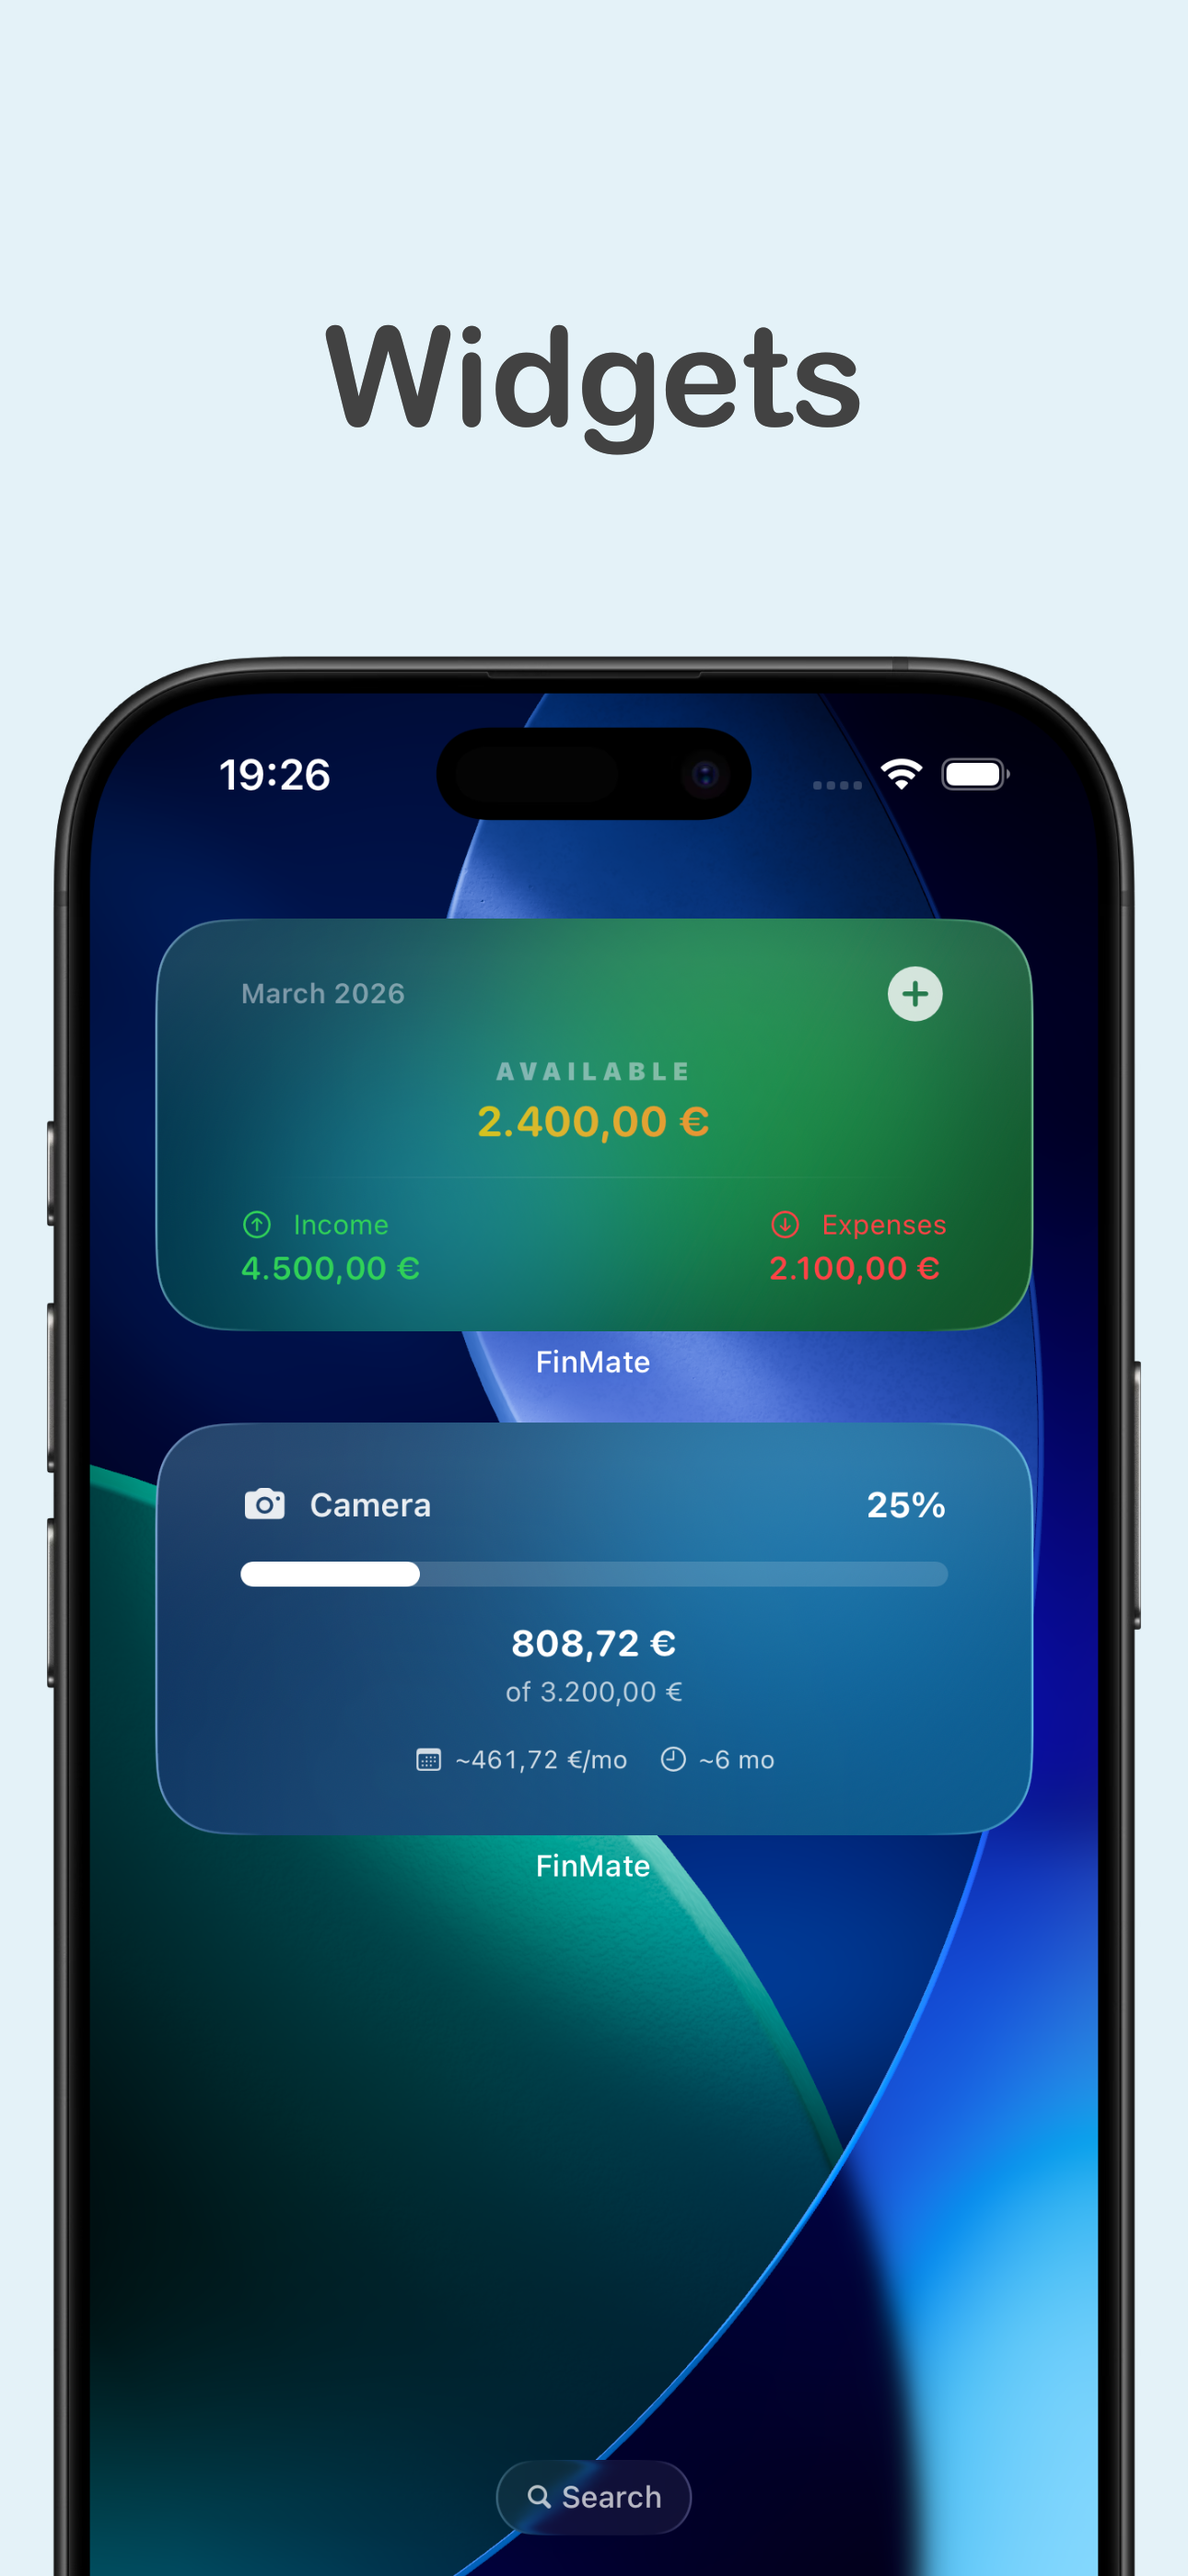
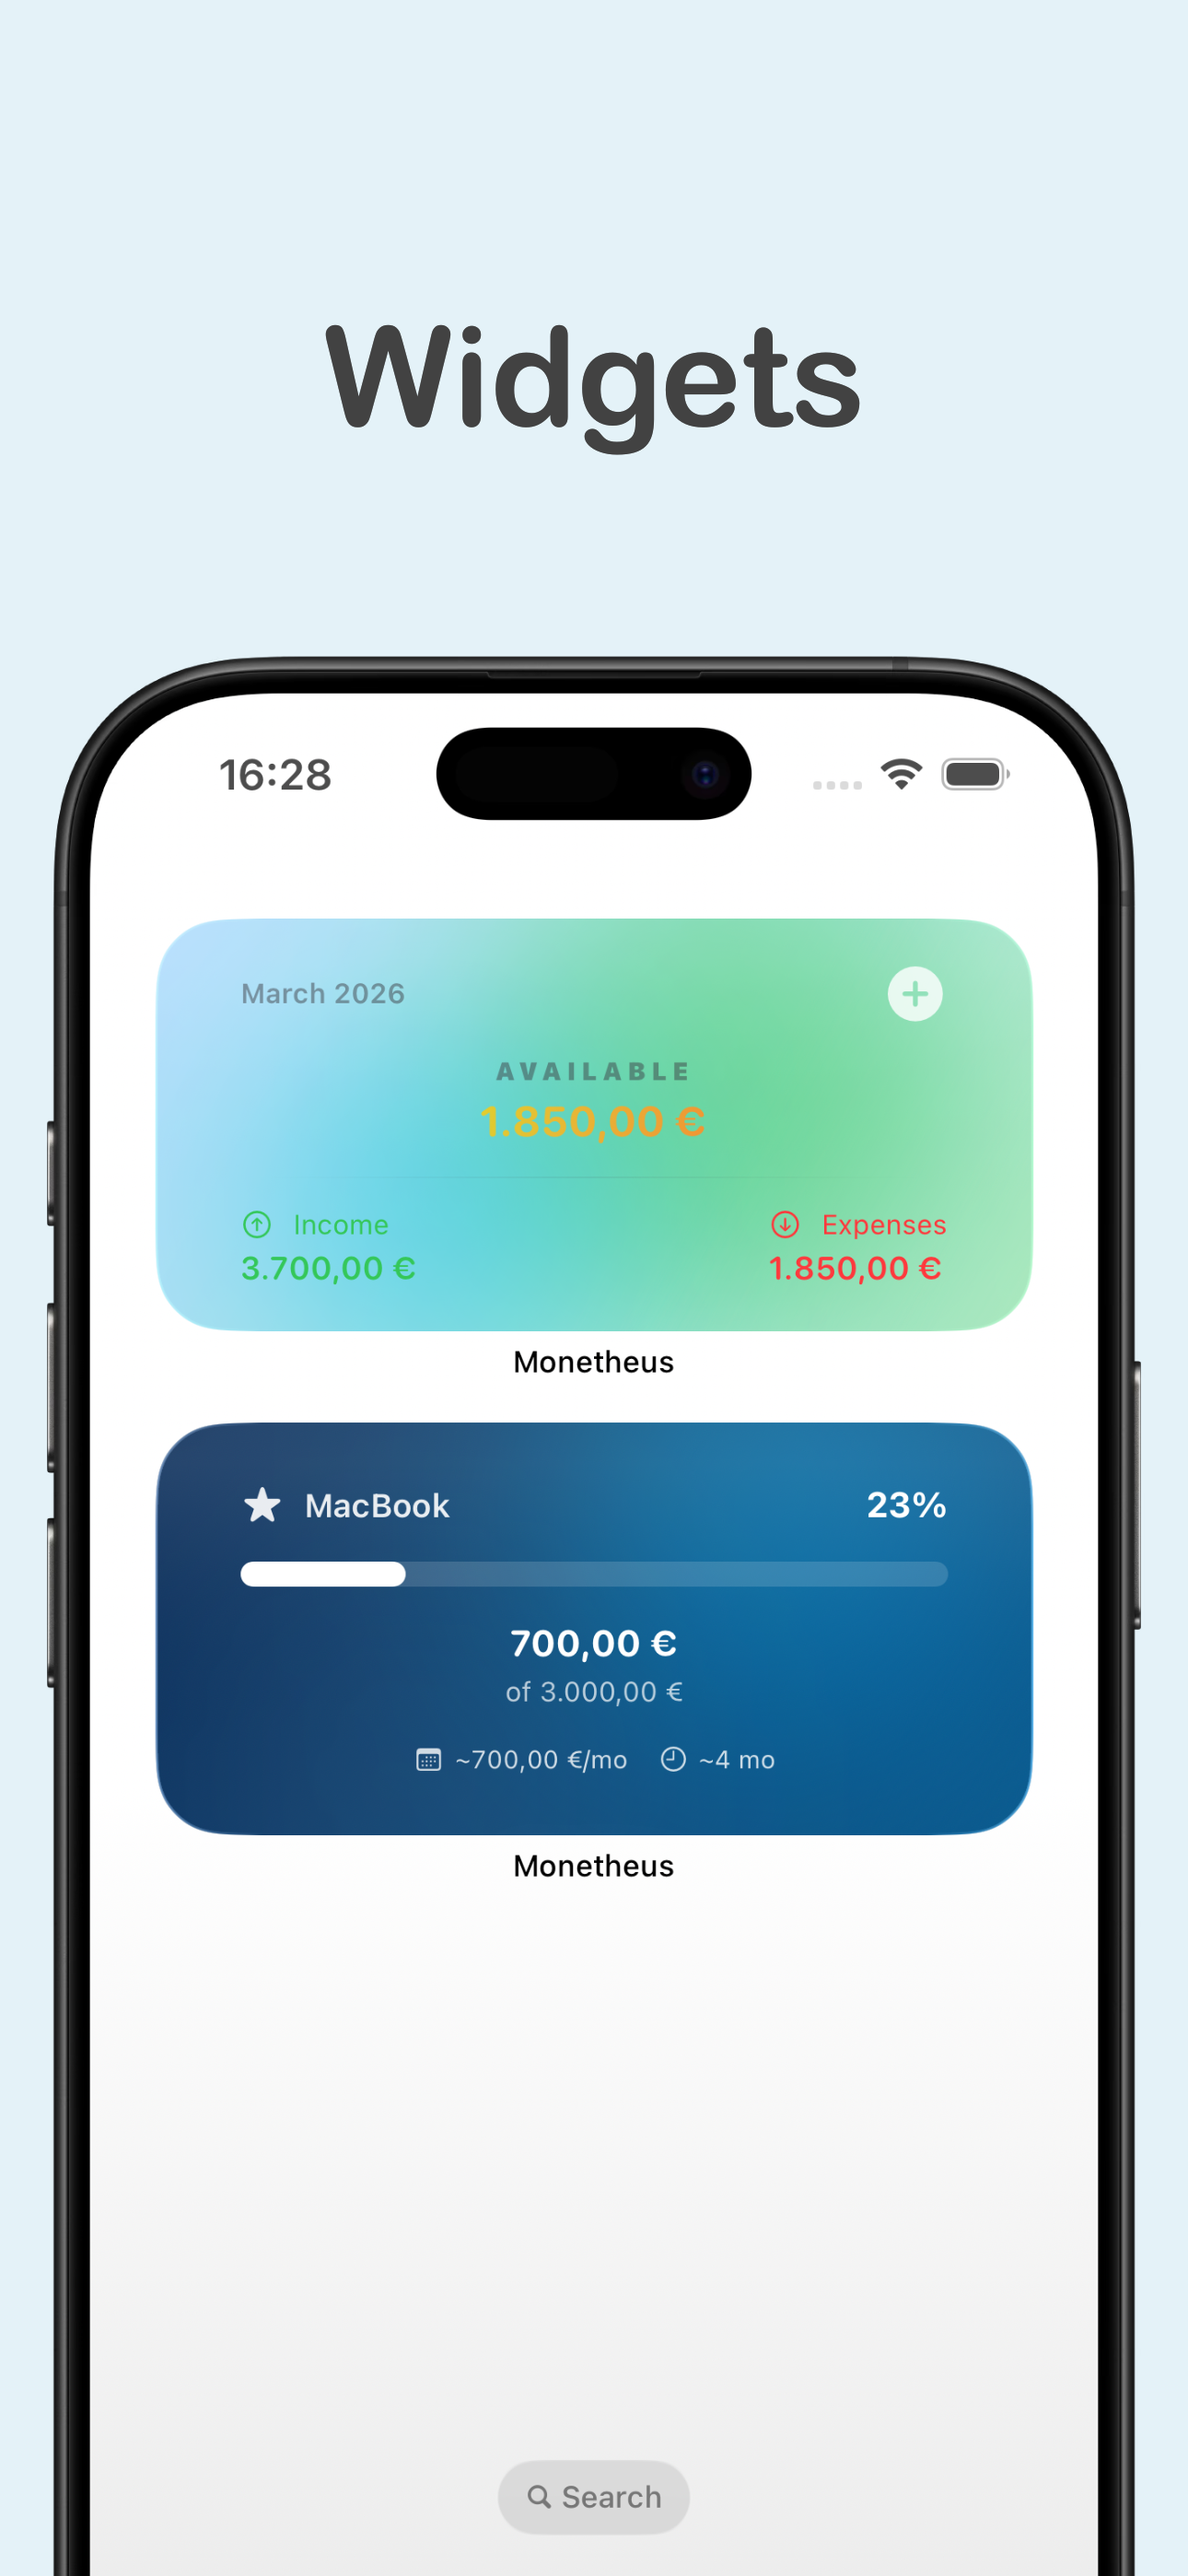
Rename

diff --git a/index.html b/index.html
@@ -3,7 +3,7 @@
 <head>
     <meta charset="UTF-8">
     <meta name="viewport" content="width=device-width, initial-scale=1.0">
-    <title>FinMate - Your Financial Planning</title>
+    <title>Monetheus - Your Financial Planning</title>
     <script src="https://cdn.tailwindcss.com"></script>
     <script>
         tailwind.config = {
@@ -34,8 +34,8 @@
     <nav id="navbar" class="fixed top-0 left-0 right-0 z-50 transition-all duration-500">
         <div class="max-w-7xl mx-auto px-6 py-4 flex items-center justify-between">
             <a href="#" class="flex items-center gap-3 group">
-                <img src="assets/App_Logo_v3.png" alt="FinMate Logo" class="w-10 h-10 rounded-xl shadow-lg group-hover:scale-110 transition-transform duration-300">
-                <span class="text-xl font-bold tracking-tight">FinMate</span>
+                <img src="assets/App_Logo_v3.png" alt="Monetheus Logo" class="w-10 h-10 rounded-xl shadow-lg group-hover:scale-110 transition-transform duration-300">
+                <span class="text-xl font-bold tracking-tight">Monetheus</span>
             </a>
             <div class="hidden md:flex items-center gap-8">
                 <a href="#features" data-i18n="nav.features" class="nav-link text-sm text-gray-400 hover:text-white transition-colors duration-300">Features</a>
@@ -71,7 +71,7 @@
             </h1>
 
             <p data-i18n="hero.subtitle" class="text-lg md:text-xl text-gray-400 max-w-2xl mx-auto mb-10 leading-relaxed fade-up" style="animation-delay: 0.2s">
-                Track your expenses, set savings goals, and get insights into your financial health with FinMate.
+                Track your expenses, set savings goals, and get insights into your financial health with Monetheus.
             </p>
             
             <div class="flex flex-col sm:flex-row items-center justify-center gap-4 fade-up" style="animation-delay: 0.3s">
@@ -90,7 +90,7 @@
                 <div class="phone-glow"></div>
                 <div class="relative mx-auto w-[280px] md:w-[300px]">
                     <div class="relative rounded-[2.5rem] overflow-hidden shadow-2xl shadow-black/50 border border-white/10">
-                        <img src="assets/overview_preview.png" alt="FinMate App Preview" class="w-full">
+                        <img src="assets/overview_preview.png" alt="Monetheus App Preview" class="w-full">
                     </div>
                 </div>
             </div>
@@ -152,7 +152,7 @@
                             </svg>
                         </div>
                         <h3 class="text-xl font-bold mb-3" data-i18n="features.f4.title">Savings Goals</h3>
-                        <p class="text-gray-400 leading-relaxed" data-i18n="features.f4.desc">Set savings goals – FinMate automatically calculates your monthly potential and progress.</p>
+                        <p class="text-gray-400 leading-relaxed" data-i18n="features.f4.desc">Set savings goals – Monetheus automatically calculates your monthly potential and progress.</p>
                     </div>
                 </div>
 
@@ -197,7 +197,7 @@
                 <div class="preview-phone scroll-reveal" style="--delay: 0">
                     <div class="relative w-[250px] md:w-[270px]">
                         <div class="rounded-[2.5rem] overflow-hidden shadow-2xl shadow-brand-900/30 border border-white/10 hover:border-white/20 transition-all duration-500 hover:-translate-y-2">
-                            <img src="assets/saving_goals_preview.png" alt="FinMate Widgets" class="w-full">
+                            <img src="assets/saving_goals_preview.png" alt="Monetheus Widgets" class="w-full">
                         </div>
                         <p class="text-center text-sm text-gray-500 mt-4 font-medium" data-i18n="preview.p1">Saving Goals</p>
                     </div>
@@ -206,7 +206,7 @@
                 <div class="preview-phone scroll-reveal" style="--delay: 1">
                     <div class="relative w-[260px] md:w-[290px]">
                         <div class="rounded-[2.5rem] overflow-hidden shadow-2xl shadow-brand-900/30 border border-white/10 hover:border-white/20 transition-all duration-500 hover:-translate-y-2">
-                            <img src="assets/statistics_1_preview.png" alt="FinMate Übersicht" class="w-full">
+                            <img src="assets/statistics_1_preview.png" alt="Monetheus Übersicht" class="w-full">
                         </div>
                         <p class="text-center text-sm text-gray-500 mt-4 font-medium" data-i18n="preview.p2">Statistics</p>
                     </div>
@@ -215,7 +215,7 @@
                 <div class="preview-phone scroll-reveal" style="--delay: 2">
                     <div class="relative w-[250px] md:w-[270px]">
                         <div class="rounded-[2.5rem] overflow-hidden shadow-2xl shadow-brand-900/30 border border-white/10 hover:border-white/20 transition-all duration-500 hover:-translate-y-2">
-                            <img src="assets/widgets_preview.png" alt="FinMate Analytics" class="w-full">
+                            <img src="assets/widgets_preview.png" alt="Monetheus Analytics" class="w-full">
                         </div>
                         <p class="text-center text-sm text-gray-500 mt-4 font-medium" data-i18n="preview.p3">Widgets</p>
                     </div>
@@ -229,9 +229,9 @@
             <div class="relative">
                 <div class="cta-glow"></div>
                 <div class="relative bg-white/[0.03] border border-white/[0.06] rounded-[2rem] p-12 md:p-20 scroll-reveal">
-                    <img src="assets/App_Logo_v3.png" alt="FinMate" class="w-20 h-20 rounded-2xl mx-auto mb-8 shadow-lg">
+                    <img src="assets/App_Logo_v3.png" alt="Monetheus" class="w-20 h-20 rounded-2xl mx-auto mb-8 shadow-lg">
                     <h2 class="text-4xl md:text-5xl font-bold tracking-tight mb-4" data-i18n="download.title">Coming soon.</h2>
-                    <p class="text-lg text-gray-400 max-w-lg mx-auto mb-10" data-i18n="download.desc">FinMate will be available soon in the App Store.</p>
+                    <p class="text-lg text-gray-400 max-w-lg mx-auto mb-10" data-i18n="download.desc">Monetheus will be available soon in the App Store.</p>
                     <a href="#" class="inline-block hover:opacity-90 hover:-translate-y-1 transition-all duration-300">
                         <img src="assets/appstore_en.png" id="appStoreImg" alt="Laden im App Store" class="h-14 md:h-16">
                     </a>
@@ -244,8 +244,8 @@
         <div class="max-w-7xl mx-auto px-6">
             <div class="flex flex-col md:flex-row items-center justify-between gap-6">
                 <div class="flex items-center gap-3">
-                    <img src="assets/App_Logo_v3.png" alt="FinMate" class="w-8 h-8 rounded-lg">
-                    <span class="text-sm text-gray-500">&copy; 2026 FinMate. <span data-i18n="footer.rights">All rights reserved.</span></span>
+                    <img src="assets/App_Logo_v3.png" alt="Monetheus" class="w-8 h-8 rounded-lg">
+                    <span class="text-sm text-gray-500">&copy; 2026 Monetheus. <span data-i18n="footer.rights">All rights reserved.</span></span>
                 </div>
                 <div class="flex items-center gap-6">
                     <a href="https://yannicks99.github.io/Privacy/" class="text-sm text-gray-500 hover:text-gray-300 transition-colors" data-i18n="footer.privacy">Privacy</a>

diff --git a/functions.js b/functions.js
@@ -8,7 +8,7 @@ const translations = {
         "hero.badge": "Coming soon to the App Store",
         "hero.title1": "Your finances.",
         "hero.title2": "Under control.",
-        "hero.subtitle": "Track your expenses, set savings goals, and get insights into your financial health with FinMate.",
+        "hero.subtitle": "Track your expenses, set savings goals, and get insights into your financial health with Monetheus.",
         "cta.main": "Coming Soon",
         "cta.learnMore": "Learn more",
         "hero.scroll": "Scroll",
@@ -22,7 +22,7 @@ const translations = {
         "features.f3.title": "Statistics",
         "features.f3.desc": "Category distribution, trends, and your monthly savings rate – all visualized.",
         "features.f4.title": "Savings Goals",
-        "features.f4.desc": "Set savings goals – FinMate automatically calculates your monthly potential and progress.",
+        "features.f4.desc": "Set savings goals – Monetheus automatically calculates your monthly potential and progress.",
         "features.f5.title": "Widgets & Reminders",
         "features.f5.desc": "Your budget directly on your home screen. Reminders make sure no transaction is forgotten.",
         "features.f6.title": "Cloud-Sync",
@@ -34,7 +34,7 @@ const translations = {
         "preview.p2": "Statistics",
         "preview.p3": "Widgets",
         "download.title": "Coming soon.",
-        "download.desc": "FinMate will be available soon in the App Store.",
+        "download.desc": "Monetheus will be available soon in the App Store.",
         "footer.rights": "All rights reserved.",
         "footer.privacy": "Privacy",
         "footer.legal": "Legal Notice"
@@ -47,7 +47,7 @@ const translations = {
         "hero.badge": "Demnächst im App Store",
         "hero.title1": "Deine Finanzen.",
         "hero.title2": "Im Griff.",
-        "hero.subtitle": "Verfolge deine Ausgaben, setze Sparziele und erhalte Einblicke in deine finanzielle Gesundheit mit FinMate.",
+        "hero.subtitle": "Verfolge deine Ausgaben, setze Sparziele und erhalte Einblicke in deine finanzielle Gesundheit mit Monetheus.",
         "cta.main": "Demnächst",
         "cta.learnMore": "Mehr erfahren",
         "hero.scroll": "Scrollen",
@@ -61,7 +61,7 @@ const translations = {
         "features.f3.title": "Statistiken",
         "features.f3.desc": "Kategorienverteilung, Trends und deine monatliche Sparquote – alles visualisiert.",
         "features.f4.title": "Sparziele",
-        "features.f4.desc": "Setze Sparziele – FinMate berechnet automatisch dein monatliches Potenzial und den Fortschritt.",
+        "features.f4.desc": "Setze Sparziele – Monetheus berechnet automatisch dein monatliches Potenzial und den Fortschritt.",
         "features.f5.title": "Widgets & Erinnerungen",
         "features.f5.desc": "Dein Budget direkt auf dem Homescreen. Erinnerungen sorgen dafür, dass keine Buchung vergessen wird.",
         "features.f6.title": "Cloud-Sync",
@@ -73,7 +73,7 @@ const translations = {
         "preview.p2": "Statistiken",
         "preview.p3": "Widgets",
         "download.title": "Bald verfügbar.",
-        "download.desc": "FinMate wird in Kürze im App Store erhältlich sein.",
+        "download.desc": "Monetheus wird in Kürze im App Store erhältlich sein.",
         "footer.rights": "Alle Rechte vorbehalten.",
         "footer.privacy": "Datenschutz",
         "footer.legal": "Impressum"
